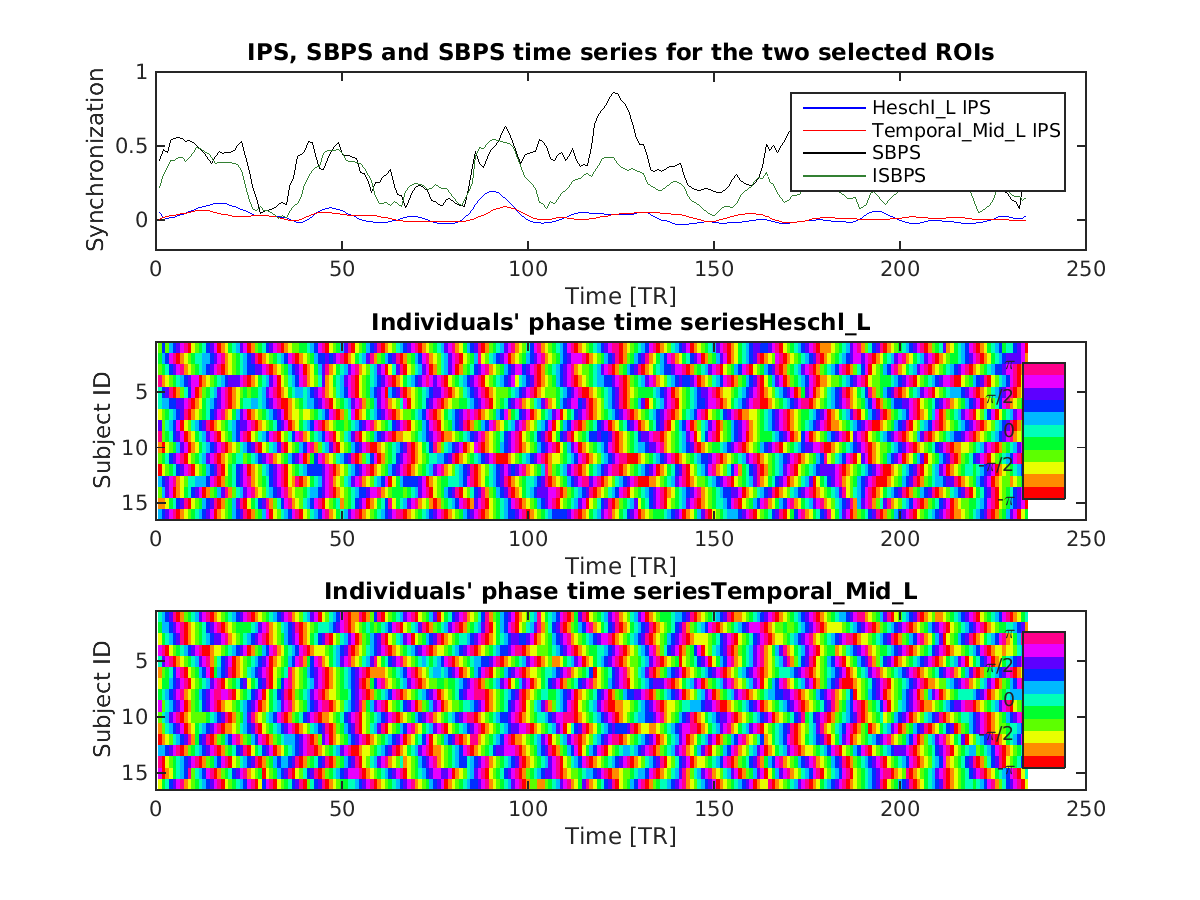
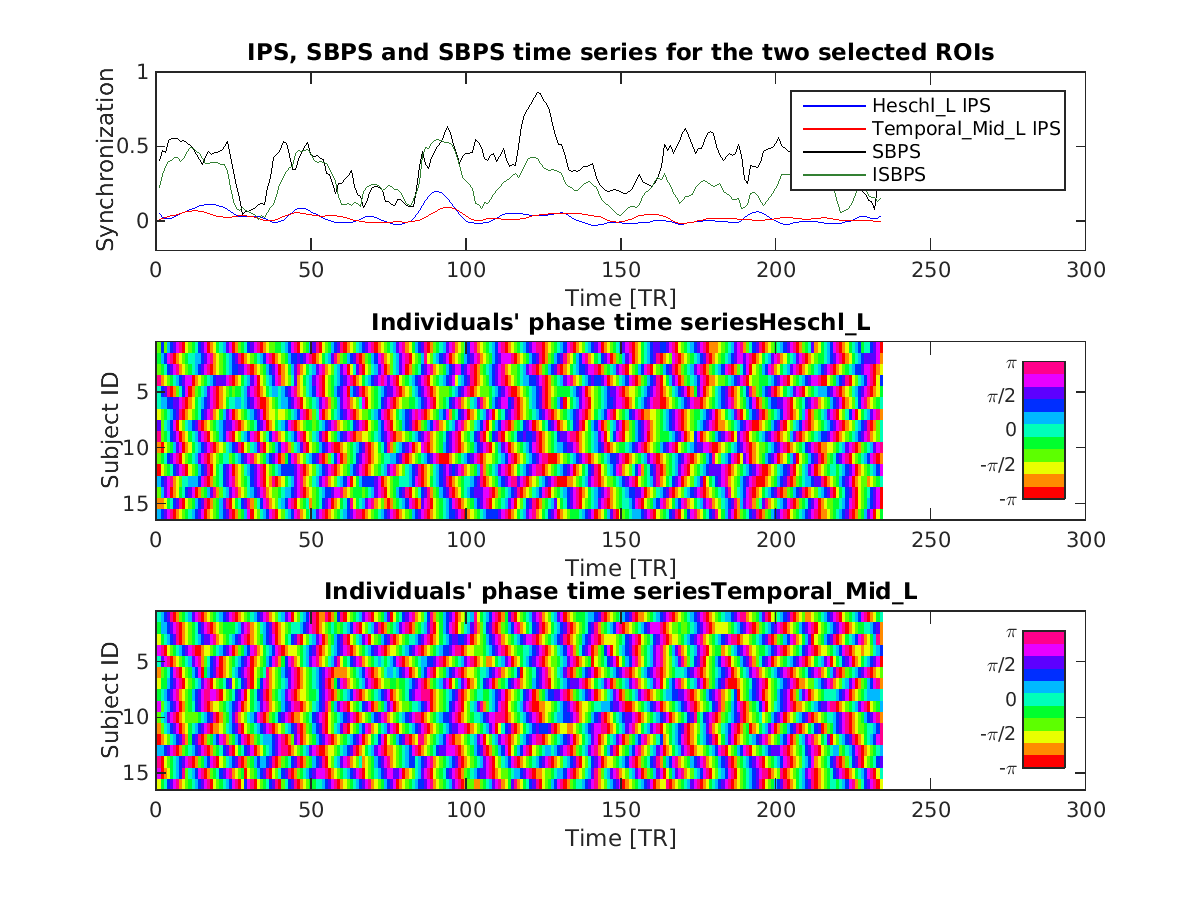
Adding a small example to visualize results

diff --git a/funpsy_example.m b/funpsy_example.m
@@ -62,7 +62,7 @@ plot(ipsts(:,2),'r');
 load([psess.results.sbps '/' num2str(roi1)]); %variable sbpsts
 sbps_r1r2=sbpsts(:,roi2-roi1);
 plot(sbps_r1r2,'k')
-
+TMAX=300;
 % load and plot ISBPS dynamic connectivity roi1 roi2
 load([psess.results.isbps '/' num2str(roi1)]); %variable sbpsts
 isbps_r1r2=isbpsts(:,roi2-roi1);
@@ -71,7 +71,7 @@ title('IPS, SBPS and SBPS time series for the two selected ROIs')
 xlabel('Time [TR]')
 ylabel('Synchronization')
 legend([{[psess.rois(roi1).label ' IPS'],[psess.rois(roi2).label ' IPS'],'SBPS','ISBPS'}],'Interpreter','none' )
-axis([0 250 -.2 1])
+axis([0 TMAX -.2 1])
 
 subplot(3,1,2)
 imagesc(allrois(:,:,1)',[-pi pi])
@@ -83,7 +83,7 @@ title(['Individuals'' phase time series' psess.rois(roi1).label],'Interpreter','
 
 xlabel('Time [TR]')
 ylabel('Subject ID')
-axis([0 250 .5 16.5])
+axis([0 TMAX .5 16.5])
 
 subplot(3,1,3)
 imagesc(allrois(:,:,2)',[-pi pi])
@@ -95,9 +95,9 @@ set(h,'Ticklabels',{'-\pi','-\pi/2', '0', '\pi/2', '\pi'})
 title(['Individuals'' phase time series' psess.rois(roi2).label],'Interpreter','none')
 xlabel('Time [TR]')
 ylabel('Subject ID')
-axis([0 250 .5 16.5])
+axis([0 TMAX .5 16.5])
 
-set(gcf,'units','normalized','outerposition',[0 0 1 1]*0.75)
+set(gcf,'units','normalized','outerposition',[0 0 1 1]/2)
 
 saveas(gcf,'DemoResults.png')
 
